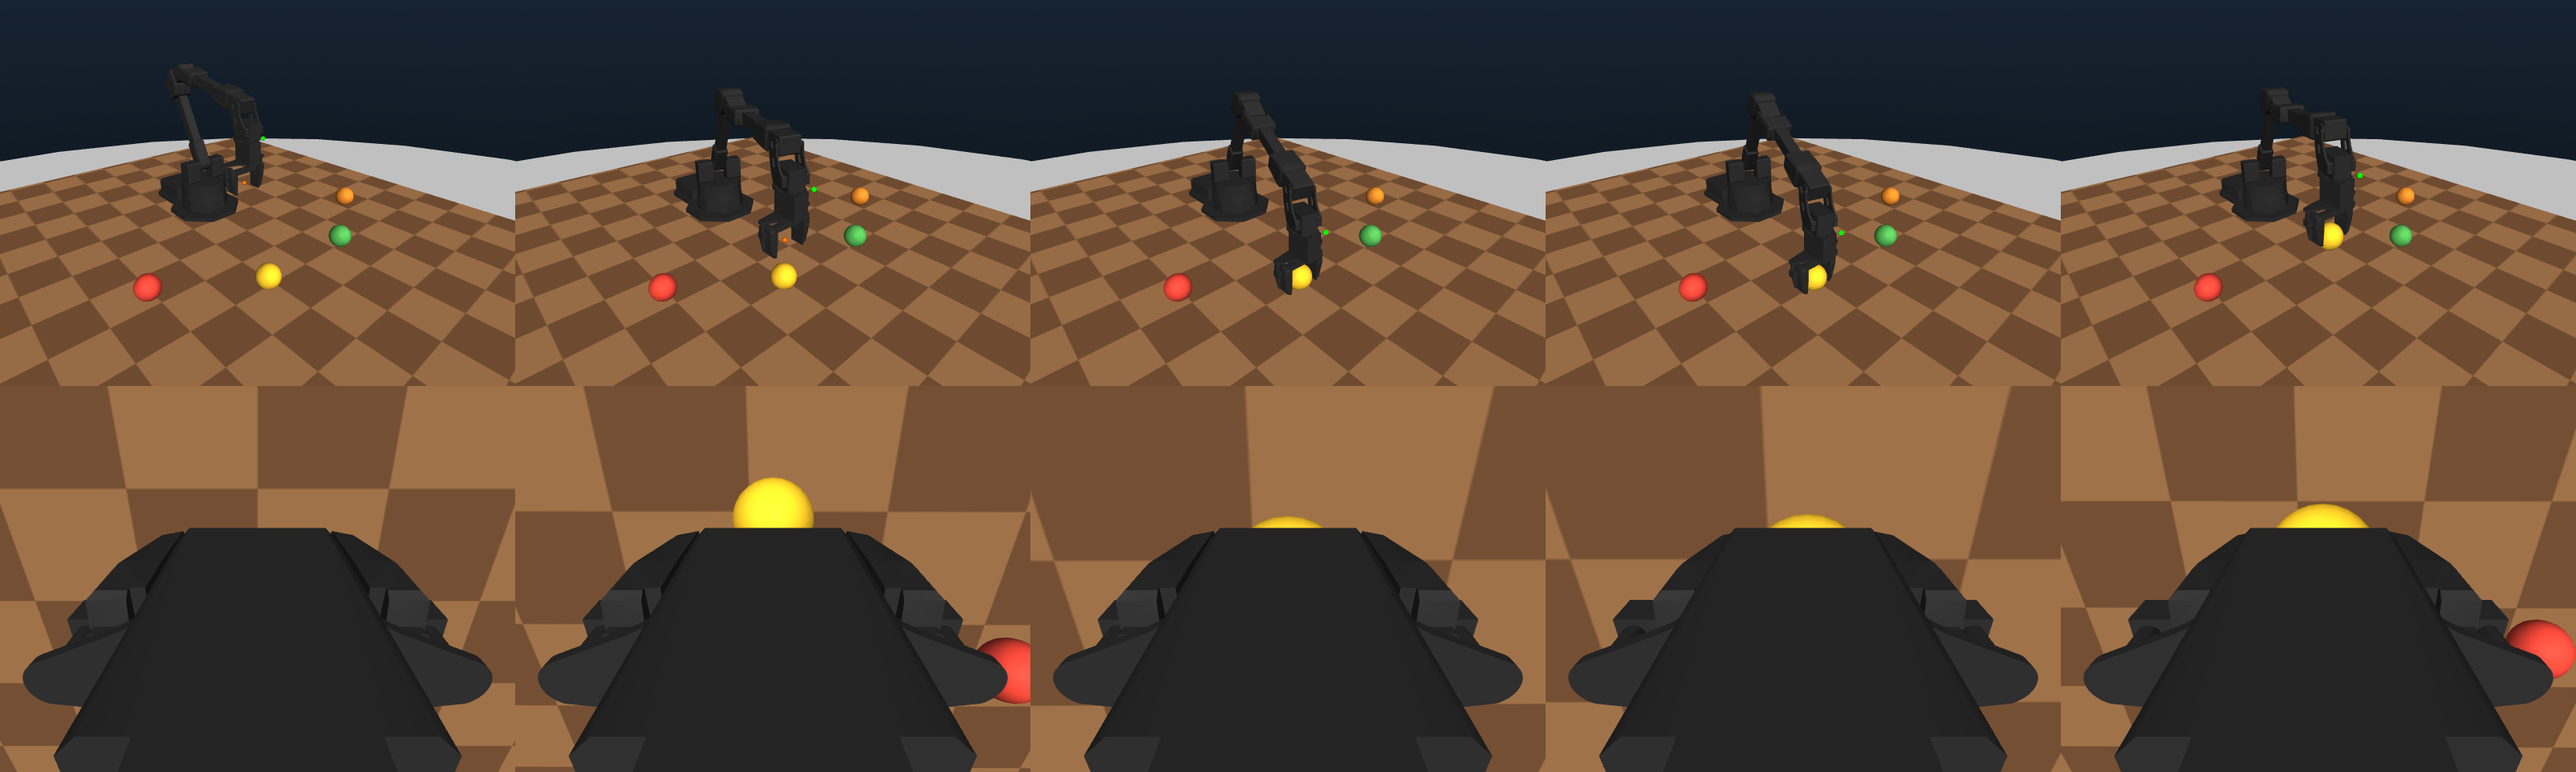
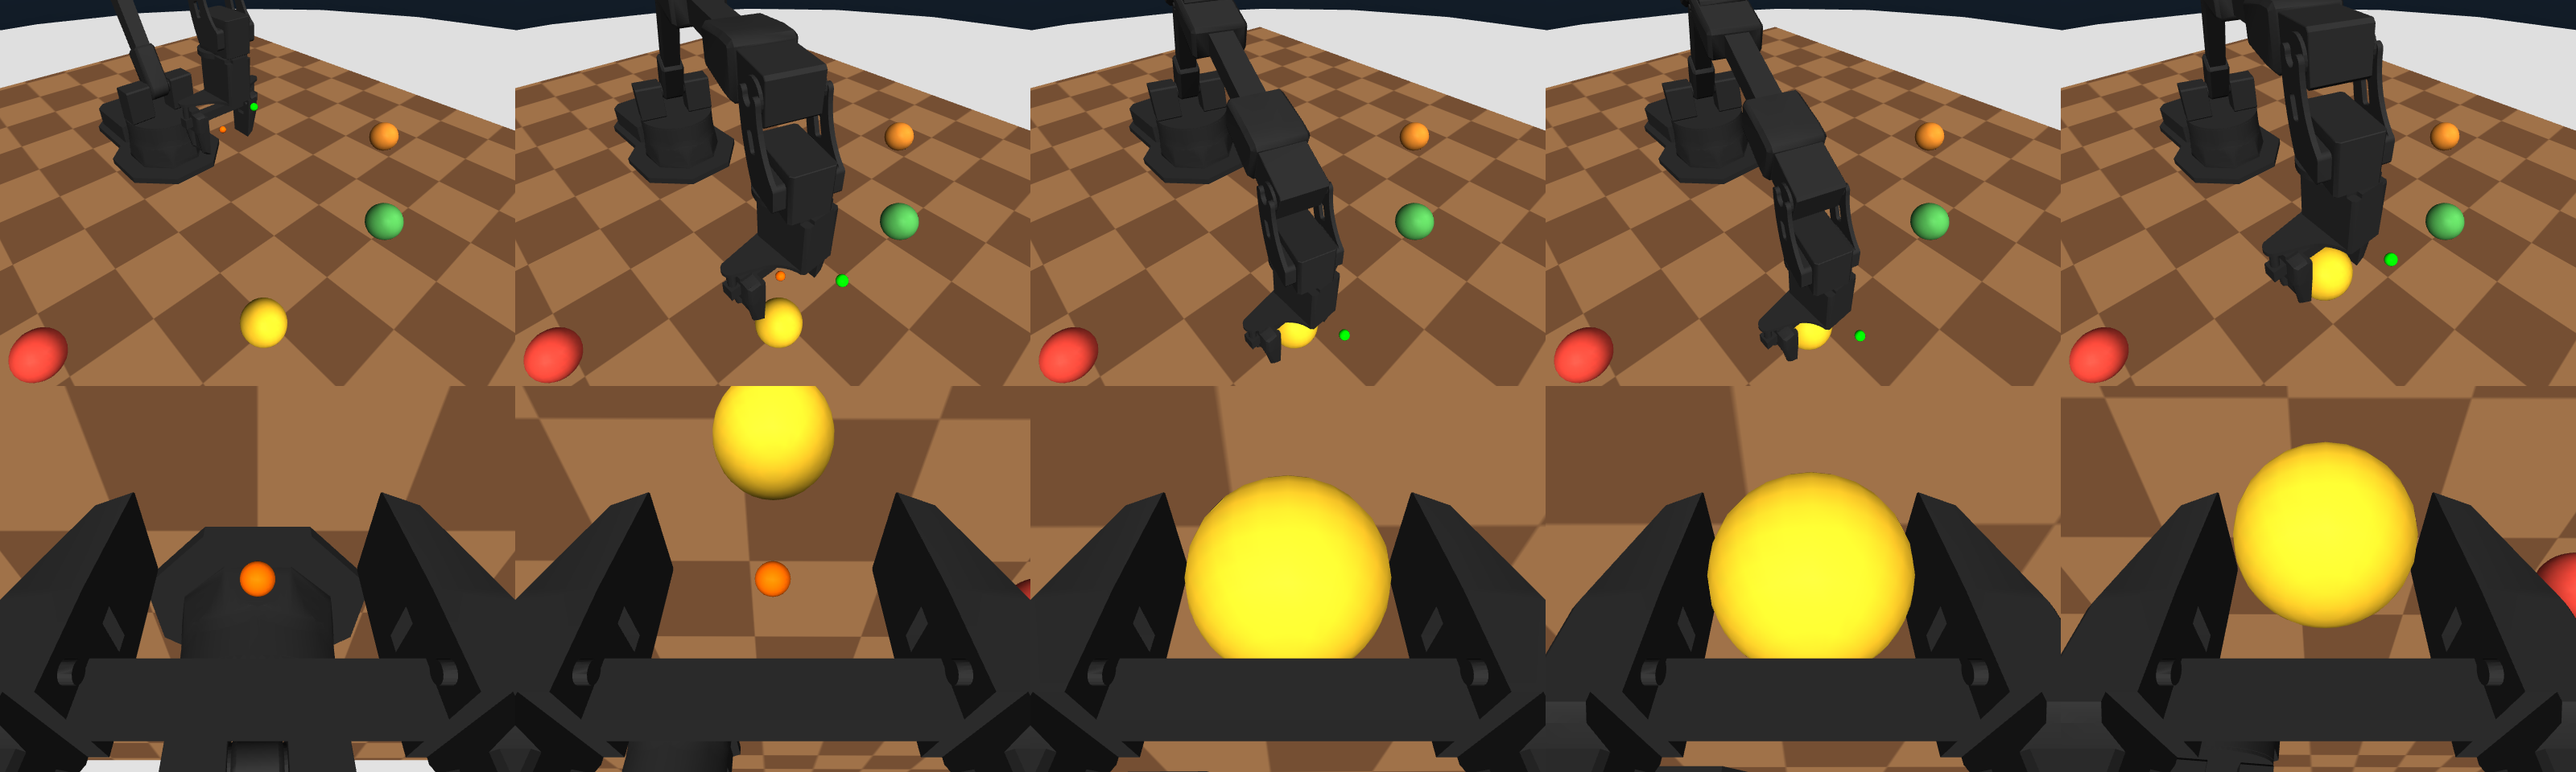
Re-site both policy cameras against what they resolve
Both were placed by construction -- aim the optic at the right point,
check nothing falls out of frame -- and both were geometrically correct
and visually useless.

The wrist camera was the worse of the two, and its original rationale was
backwards. It reasoned that pulling the camera off the gripper bar
reduces how much gripper fills the frame. True, and irrelevant: from 8 cm
above, the bar sits between the camera and the fingers. Measured with the
fingers at 70% open and an object between them, it rendered 41% gripper
bar, 1% finger per side, and 0.1% object. A wrist camera that cannot see
the fingers close on the thing they are closing on is not doing the job
the second camera slot exists for, and no amount of correct aiming fixes
it while the bar is in the way. Level with the bar instead: 15% finger
per side, 12% bar, 13% object, and the two fingers symmetric about the
optical axis so the gap between them is legible.

The overview stood 0.75 m back with a third of the image empty sky and
the robot covering 4.6% of it. At 0.42 m it covers 13.7%. That distance
is bound by the objects rather than the arm -- with the old aim only two
of four spawn cells stay fully in frame, and an instruction naming an
object the overview cannot see is unanswerable -- so the aim drops to
z=0.20 to bring all four back. The upper arm clips at the top edge in the
furthest-reach poses; no elevation at 0.42 m avoids it, since a 0.45 m
arm and a 0.57 m object sector do not both fit.
[…]

diff --git a/tests/test_widowx200_embodiment.py b/tests/test_widowx200_embodiment.py
@@ -754,3 +754,179 @@ class SectorLatticeTests(unittest.TestCase):
                 layout.spawn_radius[1],
                 f"outer lattice ring is out of reach at z={world_z}",
             )
+
+
+@requires_mujoco
+class CameraFramingTests(unittest.TestCase):
+    """What the two policy cameras actually resolve, not just where they point.
+
+    Both cameras were first placed by construction -- aim the optic at the right
+    point, check nothing falls out of frame -- and both were wrong in the same
+    way: geometrically correct and visually useless. The wrist camera sat 8 cm
+    above the gripper bar, which put the bar BETWEEN it and the fingers; it
+    rendered 41% gripper bar, 1% finger, and 0.1% object. Aiming it correctly
+    did not help, because the problem was never the aim.
+
+    So these tests measure coverage by segmentation render rather than checking
+    angles. They need a GL context and skip cleanly without one.
+    """
+
+    ARM_BAR = {"gripper_bar_link", "gripper_link", "wrist_link"}
+
+    def setUp(self) -> None:
+        self.layout = W.DEFAULT_LAYOUT
+        self.spec = WidowX200ControlSpec(
+            mount=WidowX200MountPose(self.layout.base_position, self.layout.base_yaw),
+            workspace_x=self.layout.workspace_x,
+            workspace_y=self.layout.workspace_y,
+            workspace_z=self.layout.workspace_z,
+            min_reach_radius=self.layout.min_reach_radius,
+        )
+
+    def _scene_with_objects(self):
+        cells = W.sector_lattice()[2:]
+        bodies = "".join(
+            f"""
+    <body name="obj{index}" pos="{x} {y} 0.172">
+      <freejoint/>
+      <inertial pos="0 0 0" mass="0.1" diaginertia="4e-5 4e-5 4e-5"/>
+      <geom name="objg{index}" type="sphere" size="0.022" contype="1"
+            conaffinity="6" condim="4" friction="1.2 0.02 0.002"
+            solref="0.006 1" solimp="0.95 0.99 0.001" margin="0.001"
+            rgba="0.9 0.7 0.2 1"/>
+    </body>"""
+            for index, (x, y) in enumerate(cells)
+        )
+        text = SCENE_XML.read_text().replace(
+            "</mujoco>", f"<worldbody>{bodies}</worldbody></mujoco>"
+        )
+        path = ROBOT_DIR / "_camera_test.xml"
+        path.write_text(text)
+        try:
+            model = mj.MjModel.from_xml_path(str(path))
+        finally:
+            os.remove(path)
+        W.mount_widowx200(model, self.layout, mujoco=mj)
+        return model, cells
+
+    def _renderer(self, model):
+        try:
+            return mj.Renderer(model, 240, 320)
+        except Exception as error:  # pragma: no cover - headless host
+            self.skipTest(f"no GL context for offscreen rendering: {error}")
+
+    def _pose_at(self, model, data, target, opening):
+        mj.mj_resetData(model, data)
+        solution = joint_targets_from_task_targets(
+            np.asarray(target, dtype=np.float64),
+            np.float64(0.0),
+            np.float64(opening),
+            self.spec,
+        )
+        for name, value in zip(K.JOINT_NAMES, np.asarray(solution["q"]).reshape(5)):
+            data.qpos[
+                model.jnt_qposadr[mj.mj_name2id(model, mj.mjtObj.mjOBJ_JOINT, name)]
+            ] = value
+        low, high = K.FINGER_LIMITS
+        for name in ("left_finger", "right_finger"):
+            data.qpos[
+                model.jnt_qposadr[mj.mj_name2id(model, mj.mjtObj.mjOBJ_JOINT, name)]
+            ] = low + opening * (high - low)
+        mj.mj_forward(model, data)
+
+    def _segment(self, model, data, renderer, camera):
+        renderer.enable_segmentation_rendering()
+        renderer.update_scene(data, camera=camera)
+        segment = renderer.render()[:, :, 0]
+        renderer.disable_segmentation_rendering()
+        return segment
+
+    def _body_fraction(self, model, segment, bodies):
+        geoms = [
+            geom
+            for geom in range(model.ngeom)
+            if mj.mj_id2name(model, mj.mjtObj.mjOBJ_BODY, model.geom_bodyid[geom])
+            in bodies
+        ]
+        return float(np.isin(segment, geoms).sum()) / segment.size
+
+    def test_wrist_camera_resolves_the_fingers_and_the_object(self) -> None:
+        model, cells = self._scene_with_objects()
+        data = mj.MjData(model)
+        renderer = self._renderer(model)
+        target = np.array([cells[1][0], cells[1][1], 0.172])
+        self._pose_at(model, data, target, opening=0.70)
+        segment = self._segment(model, data, renderer, "ee_camera")
+
+        left = self._body_fraction(model, segment, {"left_finger_link"})
+        right = self._body_fraction(model, segment, {"right_finger_link"})
+        bar = self._body_fraction(model, segment, self.ARM_BAR)
+        obj = float(
+            (segment == mj.mj_name2id(model, mj.mjtObj.mjOBJ_GEOM, "objg1")).sum()
+        ) / segment.size
+
+        # Measured 15.2% / 15.2% / 12.1% / 13.0%. The floors are what separates
+        # the shipped mount from the original, which scored 1.0% and 0.1%.
+        self.assertGreater(left, 0.08, "left finger is not resolvable")
+        self.assertGreater(right, 0.08, "right finger is not resolvable")
+        self.assertGreater(obj, 0.05, "the object being grasped is not visible")
+        self.assertLess(bar, 0.20, "the gripper bar is eating the wrist frame")
+        # Both fingers symmetric about the optical axis is what makes the GAP
+        # between them legible, and so the gripper state readable.
+        self.assertLess(abs(left - right), 0.25 * max(left, right))
+
+    def test_overview_sees_every_object_the_instruction_can_name(self) -> None:
+        """An instruction naming an object the overview cannot see is unanswerable."""
+
+        model, cells = self._scene_with_objects()
+        data = mj.MjData(model)
+        renderer = self._renderer(model)
+        for cell_index, height in ((3, 0.172), (0, 0.172), (1, 0.26)):
+            target = np.array([cells[cell_index][0], cells[cell_index][1], height])
+            self._pose_at(model, data, target, opening=0.70)
+            segment = self._segment(model, data, renderer, "overview")
+            for index in range(len(cells)):
+                geom = mj.mj_name2id(model, mj.mjtObj.mjOBJ_GEOM, f"objg{index}")
+                mask = segment == geom
+                self.assertGreater(
+                    mask.sum(), 0, f"object {index} invisible, arm at cell {cell_index}"
+                )
+                touches_border = bool(
+                    mask[0, :].any()
+                    or mask[-1, :].any()
+                    or mask[:, 0].any()
+                    or mask[:, -1].any()
+                )
+                self.assertFalse(
+                    touches_border,
+                    f"object {index} is clipped by the frame, arm at cell {cell_index}",
+                )
+
+    def test_overview_frames_the_robot_not_the_sky(self) -> None:
+        model, cells = self._scene_with_objects()
+        data = mj.MjData(model)
+        renderer = self._renderer(model)
+        self._pose_at(
+            model, data, np.array([cells[3][0], cells[3][1], 0.172]), opening=0.70
+        )
+        segment = self._segment(model, data, renderer, "overview")
+        arm = self._body_fraction(
+            model,
+            segment,
+            {
+                "base_link",
+                "shoulder_link",
+                "upper_arm_link",
+                "forearm_link",
+                "wrist_link",
+                "gripper_link",
+                "gripper_bar_link",
+                "left_finger_link",
+                "right_finger_link",
+            },
+        )
+        # Measured 8.4% at this resolution and pose; the 0.75 m pose it replaced
+        # scores 3.6% on the identical measurement, with a third of the frame
+        # empty sky. 6% sits between them, so a camera that drifts back out
+        # fails here rather than quietly halving the robot's pixels.
+        self.assertGreater(arm, 0.06, "the overview has drifted back off the robot")

diff --git a/docs/reports/side_tracks/WIDOWX200_MIGRATION_REPORT.md b/docs/reports/side_tracks/WIDOWX200_MIGRATION_REPORT.md
@@ -164,17 +164,61 @@ paper:
   and crops the arm to a gripper hanging in from the top edge. Worse, a camera
   on the arm's own axis sees it **end-on**: every link foreshortens onto the one
   behind it, so a correctly placed arm still renders as a floating gripper. The
-  overview is now a three-quarter view at `(-0.45, -0.45, 0.55)`, fovy 55, which
-  shows shoulder, upper arm, forearm, and wrist as separate things.
+  overview is a three-quarter view, 40° off the arm's axis, which shows
+  shoulder, upper arm, forearm, and wrist as separate things.
 
 This does change the overview image distribution relative to the CDPR
-checkpoints — unavoidable, since the scene now contains a different robot. The
-**wrist** camera is held to the old contract (fovy 60, comparable standoff)
-because it sees mostly gripper and object, which are the parts a warm start can
-still recognise. Its mount was solved against the compiled model rather than
-eyeballed: 11.9 cm standoff, optical axis on the grasp point to under 0.01°,
-gripper occupying 8.5% of the frame (measured by segmentation render; on the
-bar itself it is 15.2%).
+checkpoints — unavoidable, since the scene now contains a different robot.
+
+### Both cameras were re-sited after looking at what they actually resolve
+
+The first pass placed both cameras by construction — aim the optic at the right
+point, check nothing is out of frame — and both were wrong in the same way:
+geometrically correct and visually useless. Fixed on 2026-10-22, measured by
+segmentation render rather than by eye.
+
+**Overview: 0.75 m → 0.42 m, aim dropped from z = 0.25 to z = 0.20.**
+At 0.75 m the robot covered **4.6%** of the frame and a third of the image was
+empty sky. It is now **13.7%**, three times the pixels, with the sky gone.
+
+0.42 m is as close as the scene allows, and the binding constraint is the
+objects rather than the arm: at that distance with the old aim, only two of the
+four spawn cells stay fully inside the frame, and an instruction naming an
+object the overview cannot see is unanswerable. Dropping the aim to 0.20 brings
+all four back — checked across three arm poses and all four lattice cells.
+
+Accepted cost: the upper arm touches the top edge in the furthest-reach poses.
+Base, elbow, forearm, wrist, and gripper all stay in frame. No elevation at
+0.42 m avoids this — a 0.45 m arm and a 0.57 m object sector do not both fit —
+so it is 0.42 m with a crop, or 0.50 m without. fovy 60 un-crops it at the
+price of some of the closeness.
+
+**Wrist: moved down level with the gripper bar, from 8 cm above it.**
+This was the worse of the two, and the original rationale was simply backwards.
+The first mount reasoned that pulling the camera back off the bar reduces how
+much gripper fills the frame — true, and irrelevant, because from up there the
+**bar is between the camera and the fingers**. Measured with the fingers at 70%
+open and an object between them:
+
+| mount (local x, z) | fingers/side | bar | object |
+|---|---:|---:|---:|
+| `(-0.055, 0.055)` — original | 1.0% | 41.0% | **0.1%** |
+| `(-0.015, 0.055)` | 6.7% | 33.3% | 8.5% |
+| `(0.000, 0.055)` — shipped | **15.2%** | **12.1%** | **13.0%** |
+
+The object being grasped occupied **one pixel in a thousand**. A wrist camera
+that cannot see the fingers close on the thing they are closing on is not doing
+the job the second camera slot exists for, and no amount of correct aiming fixes
+it while the bar is in the way.
+
+Dropping the camera level with the bar clears that silhouette: 15× the finger
+pixels, 130× the object, and the bar down from 41% to 12%. Both fingers are now
+symmetric about the optical axis, so the **gap between them is legible** — which
+is what makes gripper state readable from the image at all. Standoff 7.5 cm,
+optical axis on the grasp point to 0.000°, fovy still 60 to match the CDPR
+contract.
+
+![overview and wrist, before and after](../../../assets/research/widowx200/wx200_camera_change.png)
 
 **Object placement had to change shape, not just size.** The CDPR collector
 draws four objects from a 3×3 Cartesian grid at 0.18 m spacing. That grid's

diff --git a/robots/widowx200/README.md b/robots/widowx200/README.md
@@ -8,7 +8,7 @@ runs on it unchanged from the CDPR.
 ```text
 widowx200_mujoco/
   wx200.xml               robot: URDF-exact kinematics, visual meshes, primitive collision
-  wx200_scene.xml         desk, lights, overview camera; includes wx200.xml
+  wx200_scene.xml         desk, lights, three-quarter overview camera
   meshes/                 upstream Interbotix STLs (BSD-3, Trossen) + LICENSE
   kinematics.py           closed-form FK and top-down IK, NumPy and Torch
   controller.py           host controller + the shared action-integration algebra
@@ -157,8 +157,11 @@ All from `tests/test_widowx200_embodiment.py` against the compiled model:
   lifted object at z = 0.24, nothing above z = 0.41.
 - Object lattice: 6 cells, **0.180 m** minimum separation, all reachable.
 - Scripted grasp success across the spawn sector: **29/30**.
-- Wrist camera: 11.9 cm standoff, grasp point on the optical axis, gripper
-  occupies 8.5% of the frame.
+- Wrist camera: 7.5 cm standoff, grasp point on the optical axis to 0.000°.
+  With the fingers at 70% open and an object between them, each finger covers
+  15.2% of the frame, the gripper bar 12.1%, the object 13.0%.
+- Overview camera: 0.42 m from the working volume, robot covers 13.7% of the
+  frame, all four spawn cells fully visible across three arm poses.
 
 ## Still to do
 
